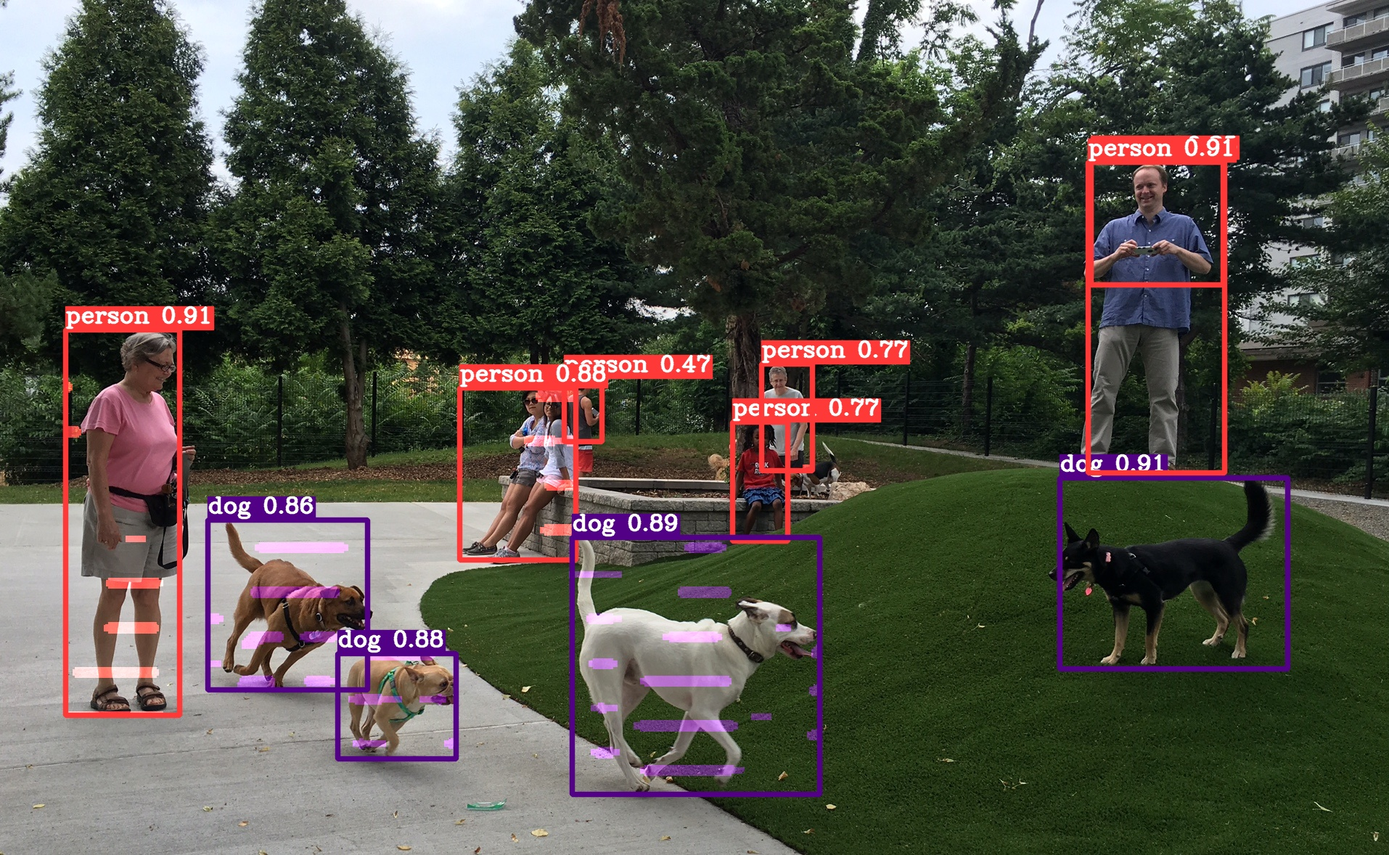
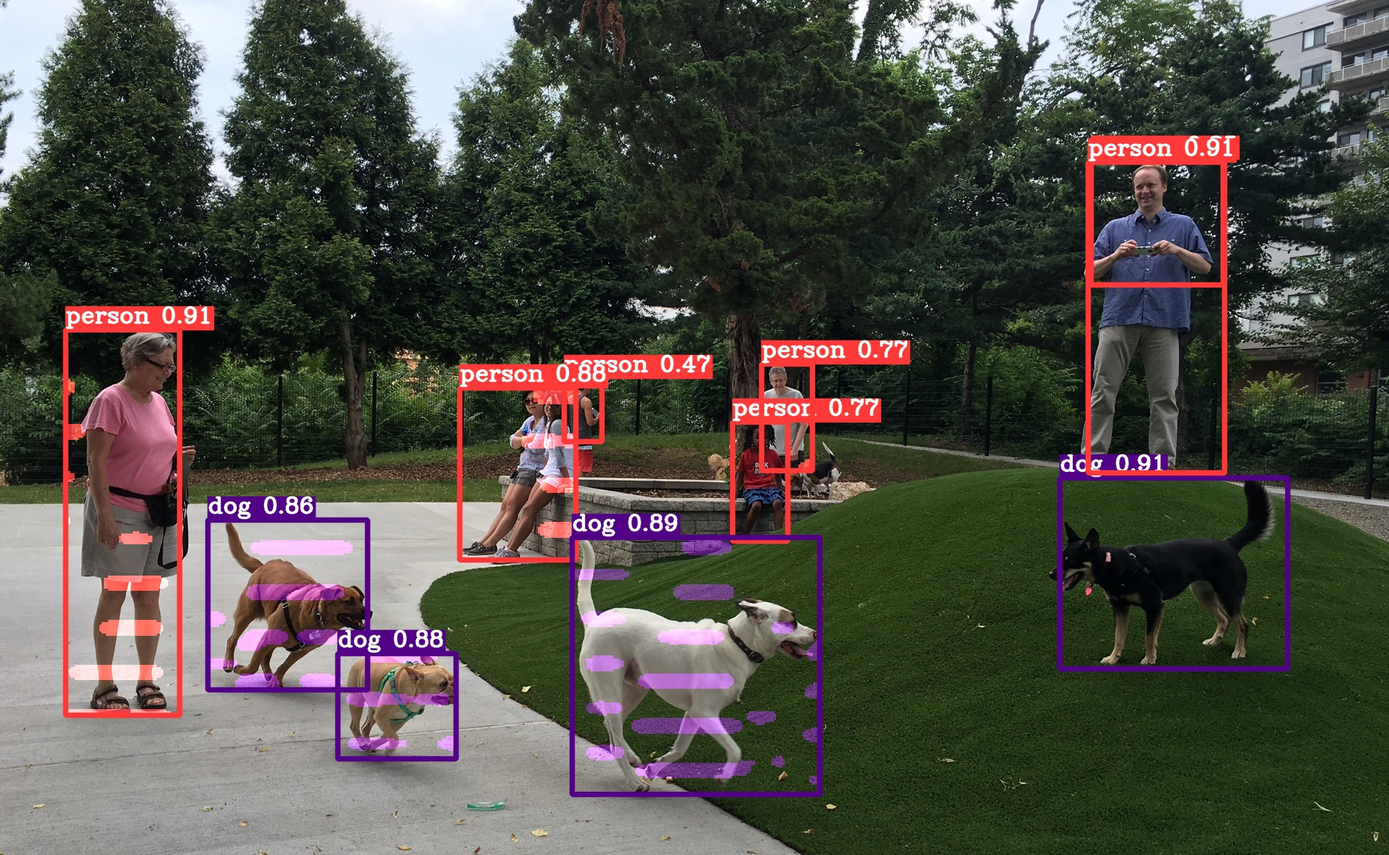
handle_proto_testing

diff --git a/Post_NMS.c b/Post_NMS.c
@@ -12,6 +12,7 @@
 #include <math.h>
 int cvRound(double value) {return(ceil(value));}
 
+
 static void sigmoid(int rowsize, int colsize, float *ptr)
 {
     for (int i = 0; i < rowsize * colsize ; ++i, ++ptr)
@@ -45,15 +46,15 @@ static void BilinearInterpolate(float *Src, uint8_t *Tar, float Threshold, struc
     float c_ratio = src_width / tar_width;
 
     clamp(&Bound, tar_width, tar_height);
-    //printf("%f, %f, %f, %f\n", Bound.left, Bound.right, Bound.top, Bound.bottom);
+    printf("%f, %f, %f, %f\n", Bound.left, Bound.right, Bound.top, Bound.bottom);
 
     // Perform Binary Threshold only in the Bounding Box Region
     for(int r = (int)Bound.top ; r < (int)Bound.bottom ; ++r){
         for(int c = (int)Bound.left ; c < (int)Bound.right ; ++c){
             float PixelSum = 0.f;
             
-            float dr = (r + 0.5f) * r_ratio - 0.5f;
-            float dc = (c + 0.5f) * c_ratio - 0.5f;
+            float dr = ((float)r + 0.5f) * r_ratio - 0.5f;
+            float dc = ((float)c + 0.5f) * c_ratio - 0.5f;
             float ir = floorf(dr), ic = floorf(dc);
 
             dr = (dr < 0.f) ? 1.0f : ((dr > src_height - 1.0f) ? 0.f : dr - ir);
@@ -75,7 +76,7 @@ static void handle_proto_test(struct Object* obj, const float masks[NUM_MASKS][M
     // Matrix Multiplication
     float* maskcoeffs = obj->maskcoeff;
     struct Bbox box = obj->Rect;
-   
+
     float Binary_Thres = 0.5f;
     float pred_mask[MASK_SIZE_HEIGHT*MASK_SIZE_WIDTH] = {0};
 
@@ -89,6 +90,15 @@ static void handle_proto_test(struct Object* obj, const float masks[NUM_MASKS][M
     }
 
     sigmoid(MASK_SIZE_HEIGHT, MASK_SIZE_WIDTH, pred_mask);
+    // IplImage* SrcMask = cvCreateImageHeader(cvSize(MASK_SIZE_WIDTH, MASK_SIZE_HEIGHT), IPL_DEPTH_32F, 1); 
+    // cvSetData(SrcMask, pred_mask, SrcMask->widthStep);
+
+    // cvNamedWindow("Output", CV_WINDOW_AUTOSIZE);
+    // cvShowImage("Output", SrcMask);
+    // cvWaitKey(0);
+    // cvDestroyAllWindows();
+
+    // cvReleaseImage(&SrcMask);
     // Bilinear Interpolate + Binary Threshold 
     // Obtain Uncropped Mask (size 640 * 640)
     BilinearInterpolate(pred_mask, UncroppedMask, Binary_Thres, box);

diff --git a/Sources/Input.c b/Sources/Input.c
@@ -91,6 +91,8 @@ void initPredInput(struct Pred_Input* input, float* mask_ptr, const char** argv)
     ReadMaskInput(mask_ptr, NUM_MASKS, MASK_SIZE_HEIGHT*MASK_SIZE_WIDTH, argv[11]);
 }
 
-//  gcc main.c -o T ./Sources/Input.c ./Sources/Bbox.c  `pkg-config --cflags --libs opencv` -lm
-// ./T ./Images/img.jpg ./outputs/cls_preds8.txt ./outputs/cls_preds16.txt ./outputs/cls_preds32.txt ./outputs/reg_preds8.txt ./outputs/reg_preds16.txt ./outputs/reg_preds32.txt ./outputs/seg_preds8.txt ./outputs/seg_preds16.txt ./outputs/seg_preds32.txt ./outputs/mask_input.txt
-// ./T ./Images/img.jpg  ./Outputs/regs_preds.txt ./Outputs/cls_preds.txt ./Outputs/seg_preds.txt ./Outputs/masks.txt 
+/*
+  gcc main.c -o T ./Sources/Input.c ./Sources/Bbox.c  `pkg-config --cflags --libs opencv` -lm
+  time ./T ./Images/img.jpg ./outputs/cls_preds8.txt ./outputs/cls_preds16.txt ./outputs/cls_preds32.txt ./outputs/reg_preds8.txt ./outputs/reg_preds16.txt ./outputs/reg_preds32.txt ./outputs/seg_preds8.txt ./outputs/seg_preds16.txt ./outputs/seg_preds32.txt ./outputs/mask_input.txt
+ ./T ./Images/img.jpg  ./Outputs/regs_preds.txt ./Outputs/cls_preds.txt ./Outputs/seg_preds.txt ./Outputs/masks.txt 
+*/
